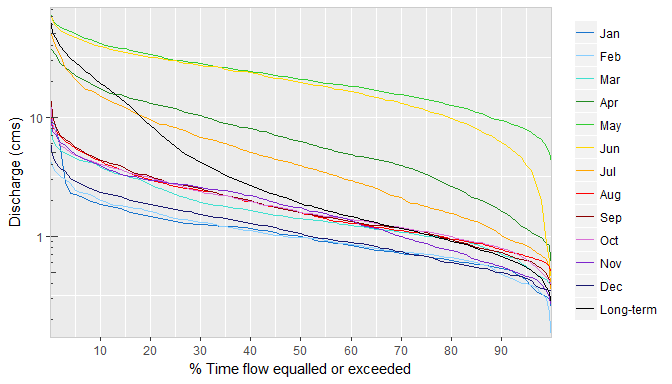
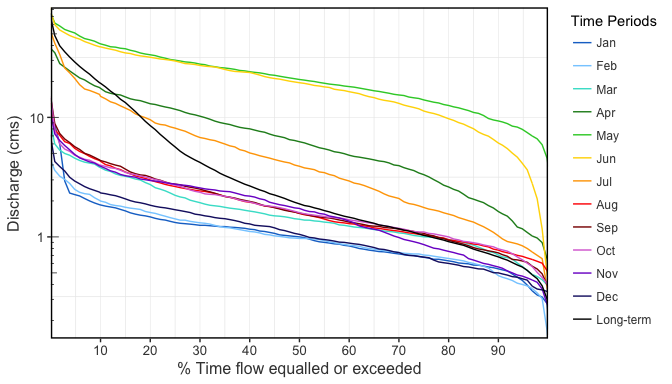
updated README

diff --git a/README.md b/README.md
@@ -134,10 +134,12 @@ plot_daily_stats(data = "08NM116",
 Flow duration curves can be produced using the `plot_flow_duration()` function.
 
 ``` r
-#plot_flow_duration(HYDAT = "08NM116",
-#                   start_year = 1981,
-#                   end_year = 2010)
+plot_flow_duration(data = "08NM116",
+                   start_year = 1981,
+                   end_year = 2010)
 ```
+
+![](tools/readme/README-plot2-1.png)
 
 ### Analysis example: low-flow frequency analysis
 
